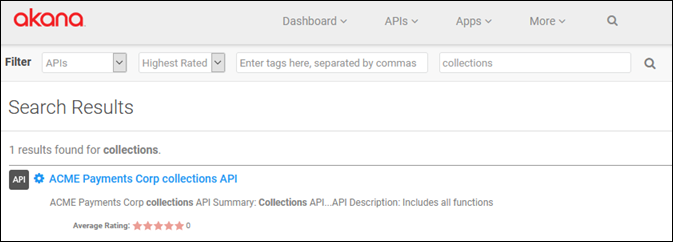
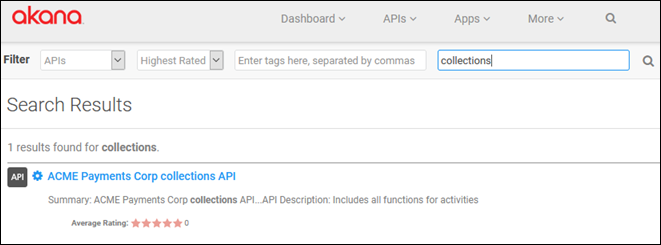
ATMO-38432_expand_search_results (AB edits #2)

diff --git a/cm/learnmore/apiadmin_api_add.htm b/cm/learnmore/apiadmin_api_add.htm
@@ -606,12 +606,11 @@ nav-title: Add an API
 <p>In this example:</p>
 <ul>
 	<li>Search term: collections</li>
-	<li><strong>Summary</strong> text: ACME Payments Corp collections API Summary: Collections API
-	</li>
+	<li><strong>Summary</strong> text: Summary: ACME Payments Corp collections API</li>
 	<li><strong>API Description</strong> text: API Description: Includes all functions for activities related to collecting funds.
 	</li>
 </ul>
-<p>In this example, the search term appears twice in the summary. In the search results, it is highlighted. The search entry also includes the ellipsis and a fragment of the API Description. At least a few words are include before and after the search term in the search results, to provide context.</p>
+<p>In this example, the search term appears in the summary. In the search results, it is highlighted. The search entry also includes the ellipsis and a fragment of the API Description. At least a few words are include before and after the search term in the search results, to provide context.</p>
 <p><img src="assets/api_search_results_02.png" alt="Search results entry for an API, example #2" /></p>
 
 <h4 id="app_search_results_example_03">Example #3: Only the Description includes a match for the search term</h4>
